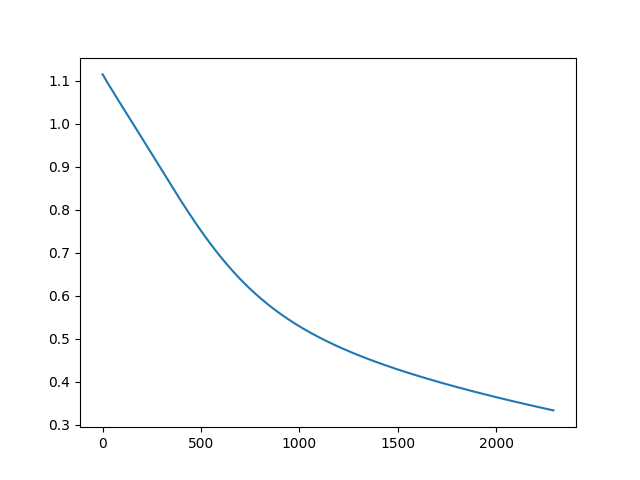
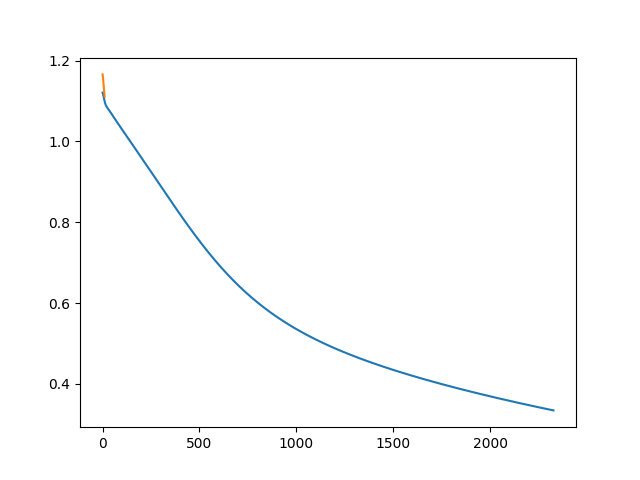
minor fix

diff --git a/iris/iris.py b/iris/iris.py
@@ -18,11 +18,10 @@ print("Acerto do MLP sem separação da base de dados dos testes: ",mlp.score(va
 print("Acerto do MLP com separação da base de dados dos testes: ",mlp_with_separation_data.score(values,classes))
 
 #Plotting
+pyplot.figure()
 pyplot.plot(mlp.loss_curve_)
+pyplot.plot(mlp_with_separation_data.loss_curve_)
 pyplot.savefig('mlp_loss.png')
-
-pyplot.plot(mlp.loss_curve_)
-pyplot.savefig('mlp_separation_loss.png')
 
 
 #Guessing
